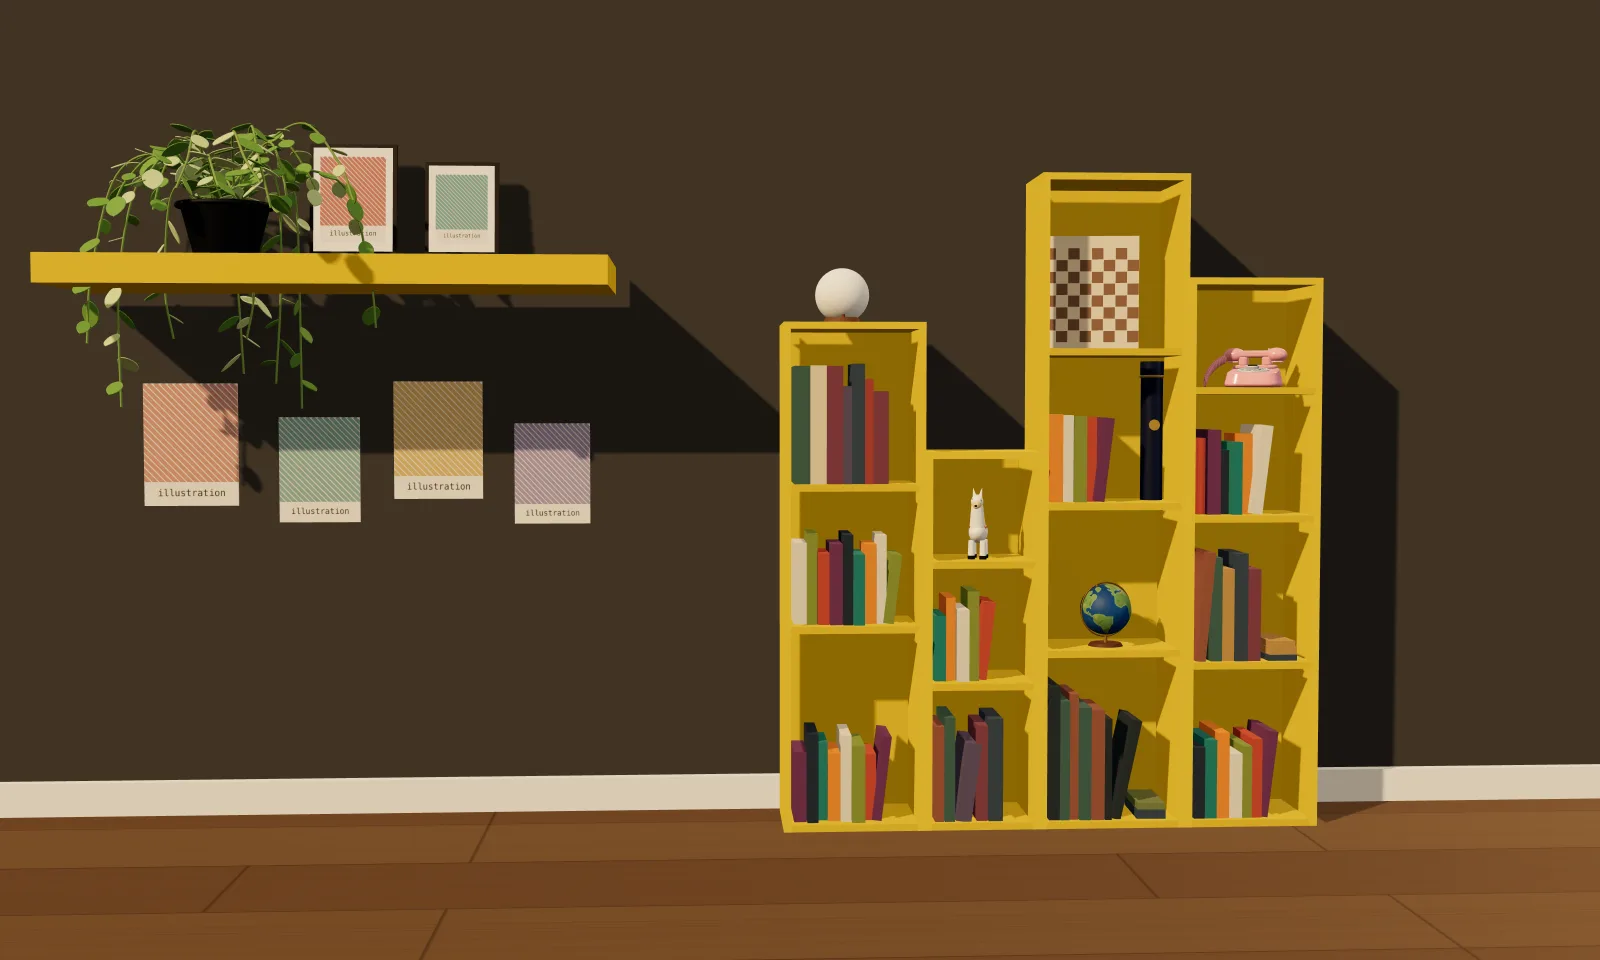
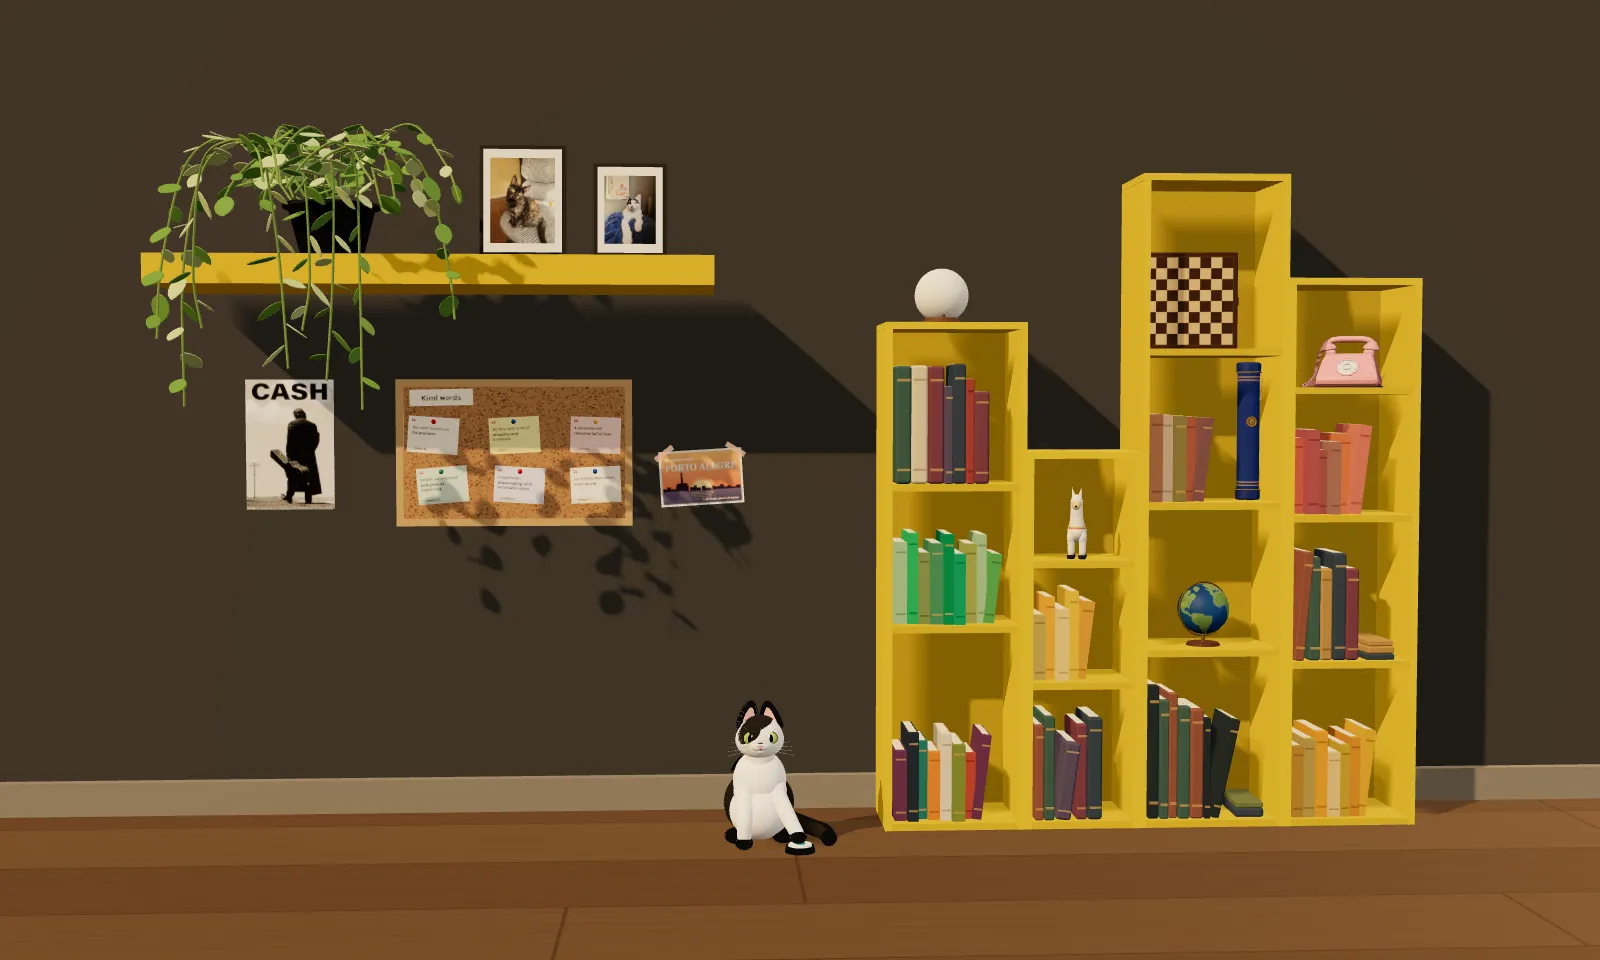
Fit the desktop room to the window and centre it
The stage now fills the window instead of a fixed 16:9.6 box, so short wide screens no longer scroll; text and the
Reader scale by whichever of width or height is tighter. The camera centres on the shelf and bookcase and backs off
for narrower windows, the loading poster matches the live scene, and upright windows use the portrait layout.

diff --git a/src/pages/HomeDesktop/HomeDesktop.module.css b/src/pages/HomeDesktop/HomeDesktop.module.css
@@ -2,17 +2,20 @@
   display: flex;
   flex-direction: column;
   width: 100%;
-  min-height: 100vh;
+  height: 100dvh;
+  overflow: hidden;
   background: var(--stage);
   font-family: var(--font-ui);
 }
 
-/* One 16:9.6 stage at full page width. Everything inside is sized in cqw so it scales with the stage. */
+/* The room fills the window. Text inside is sized in --u: a hundredth of the width of a 16:9.6 frame that fits in the
+   window, so it scales with the width and still fits a short, wide screen. */
 .stage {
   position: relative;
   width: 100%;
-  aspect-ratio: 16 / 9.6;
-  container-type: inline-size;
+  height: 100%;
+  container-type: size;
+  --u: min(1cqw, calc(1cqh * 16 / 9.6));
   overflow: hidden;
   background: var(--stage);
 }
@@ -38,8 +41,8 @@
   top: 4%;
   right: 4%;
   /* The sidesheet is `position: fixed` (viewport-relative), so it needs telling how tall the room
-     actually is here — the .stage box above, not the browser window, which can be taller than it. */
-  --quicknav-panel-height: calc(100vw * 9.6 / 16);
+     actually is here: the .stage box above, which fills the window. */
+  --quicknav-panel-height: 100dvh;
 }
 
 .intro {
@@ -56,17 +59,17 @@
   font-family: var(--font-display);
   font-weight: 400;
   font-style: normal;
-  /* 4.9cqw x headline scale 0.9 */
-  font-size: calc(4.9cqw * 0.9);
+  /* 4.9u x headline scale 0.9 */
+  font-size: calc(4.9 * 0.9 * var(--u));
   line-height: 1.02;
   letter-spacing: -0.015em;
   text-wrap: pretty;
 }
 
 .lede {
-  margin: 1.4cqw 0 0;
-  max-width: 28cqw;
-  font-size: 1.2cqw;
+  margin: calc(1.4 * var(--u)) 0 0;
+  max-width: calc(28 * var(--u));
+  font-size: calc(1.2 * var(--u));
   line-height: 1.5;
   color: rgb(var(--light-rgb) / 0.82);
 }
@@ -74,8 +77,8 @@
 .counter {
   display: flex;
   align-items: center;
-  margin-top: 1.8cqw;
-  font-size: 0.9cqw;
+  margin-top: calc(1.8 * var(--u));
+  font-size: calc(0.9 * var(--u));
   letter-spacing: 0.18em;
   text-transform: uppercase;
   color: rgb(var(--light-rgb) / 0.6);
@@ -85,12 +88,12 @@
 .chip {
   position: absolute;
   transform: translate(-50%, -180%);
-  padding: 0.3cqw 0.9cqw;
-  border: 0.14cqw solid var(--ink);
+  padding: calc(0.3 * var(--u)) calc(0.9 * var(--u));
+  border: calc(0.14 * var(--u)) solid var(--ink);
   border-radius: 999px;
   background: var(--accent);
   color: var(--ink);
-  font-size: 0.85cqw;
+  font-size: calc(0.85 * var(--u));
   font-weight: 700;
   letter-spacing: 0.08em;
   text-transform: uppercase;
@@ -98,7 +101,7 @@
   pointer-events: none;
   opacity: 0;
   transition: opacity 0.16s ease;
-  box-shadow: 0 0.4cqw 1.2cqw rgba(0, 0, 0, 0.45);
+  box-shadow: 0 calc(0.4 * var(--u)) calc(1.2 * var(--u)) rgba(0, 0, 0, 0.45);
 }
 
 .chipVisible {
@@ -110,12 +113,12 @@
   left: 50%;
   bottom: 12%;
   transform: translateX(-50%);
-  padding: 0.5cqw 1.2cqw;
+  padding: calc(0.5 * var(--u)) calc(1.2 * var(--u));
   border-radius: 999px;
   background: rgb(var(--scrim-rgb) / 0.78);
   color: var(--paper);
   font-family: var(--font-mono);
-  font-size: 0.85cqw;
+  font-size: calc(0.85 * var(--u));
   letter-spacing: 0.16em;
   text-transform: uppercase;
   pointer-events: none;

diff --git a/src/scene/officeScene.ts b/src/scene/officeScene.ts
@@ -38,6 +38,10 @@ const TOUCH_REACH = 24;
 /** The key light's shadow frustum for the desktop layout. Portrait widens it (see wide() in applyView)
  *  while the wall shelf sits above the bookcase, then this is restored the moment desktop returns. */
 const SHADOW_HOME = { left: -3.2, right: 3.8, top: 4.2, bottom: -1.2 };
+/** Desktop camera distance from the wall; it shows the room's full height. */
+const DESK_DIST = 8.3;
+/** Room to leave on each side of the shelf and bookcase on desktop, in scene units. */
+const DESK_SIDE_MARGIN = 0.6;
 
 /** Hotspots that are books on the shelf: hovering one slides a book out toward the viewer, like pulling it off. */
 const BOOK_IDS: readonly string[] = ["about", "case1", "case2", "case3", "case4", "case5", "resume"];
@@ -963,6 +967,10 @@ export class OfficeScene {
     this.applyLight(o.daylight);
     if (o.touchControls) this.enableTouchControls();
     this.applyView(o.view);
+    // Open on that framing rather than easing into it from the default one.
+    camera.position.copy(this.camBase);
+    if (this.tGoal) this.target.copy(this.tGoal);
+    camera.lookAt(this.target);
     this.applyWall(o.walltone);
     this.setHints(o.hints);
 
@@ -1335,7 +1343,7 @@ export class OfficeScene {
       const asp = this.camera.aspect || 1.6;
       this.framedPortrait = asp < 1.15;
       if (asp >= 1.15) {
-        // desktop: exactly the original layout and framing, untouched by anything portrait does.
+        // desktop: the original layout and camera height, untouched by anything portrait does, centred on the room.
         this.wallShelf?.position.copy(this.wallHomeShelf);
         this.posters?.position.copy(this.wallHomePosters);
         if (this.wallLight) this.wallLight.intensity = 0;
@@ -1343,8 +1351,15 @@ export class OfficeScene {
           Object.assign(shadowCam, SHADOW_HOME);
           shadowCam.updateProjectionMatrix();
         }
-        this.camBase.set(1.0, 1.95, 8.3);
-        tGoal.set(1.45, 1.6, 0);
+        // The room (wall shelf with its plant, illustrations and the bookcase) sits in the middle of the window. The
+        // original distance shows its full height; a window narrower than that backs off until the whole width fits.
+        const room = this.bookBox && this.wallHomeBox ? this.bookBox.clone().union(this.wallHomeBox) : null;
+        const cx = room ? (room.min.x + room.max.x) / 2 : 1.45;
+        const halfW = room ? (room.max.x - room.min.x) / 2 + DESK_SIDE_MARGIN : 3.6;
+        const tanV = Math.tan((this.camera.fov * Math.PI) / 360);
+        const d = Math.max(DESK_DIST, halfW / (tanV * asp));
+        this.camBase.set(cx - 0.45, 1.95, d);
+        tGoal.set(cx, 1.6, 0);
         return;
       }
       // portrait: the wall shelf and illustrations move to sit above the bookcase (mobile only —

diff --git a/src/components/Reader/Reader.tsx b/src/components/Reader/Reader.tsx
@@ -1,4 +1,4 @@
-import { useCallback, useEffect, useMemo, useRef, useState } from "react";
+import { useCallback, useEffect, useLayoutEffect, useMemo, useRef, useState } from "react";
 import { getReaderItem, type ReaderItem } from "../../content";
 import { usePrefersReducedMotion } from "../../hooks/usePrefersReducedMotion";
 import { emitSelect } from "../../scene/events";
@@ -99,6 +99,20 @@ export function Reader({ item, id, onClose, className, compact = false }: Props)
   }, []);
 
   const root = useRef<HTMLDivElement>(null);
+  // The desktop book is sized for a 16:9.6 room. In a window that is wider than that (a short laptop screen), shrink it
+  // by how much the height falls short, so the book and its controls still fit without scrolling.
+  useLayoutEffect(() => {
+    const el = root.current;
+    if (compact || !el) return;
+    const fit = () => {
+      const { width, height } = el.getBoundingClientRect();
+      el.style.setProperty("--fit", String(width > 0 ? Math.min(1, (height * 16) / 9.6 / width) : 1));
+    };
+    fit();
+    const ro = new ResizeObserver(fit);
+    ro.observe(el);
+    return () => ro.disconnect();
+  }, [compact]);
   const prevBtn = useRef<HTMLButtonElement>(null);
   const nextBtn = useRef<HTMLButtonElement>(null);
   const timers = useRef<{ cover?: number; turn?: number; close?: number }>({});

diff --git a/src/components/Reader/parts.tsx b/src/components/Reader/parts.tsx
@@ -1,6 +1,7 @@
 import { Fragment, useContext, useEffect, useRef, useState, type CSSProperties, type ReactNode } from "react";
 import { createPortal } from "react-dom";
 import { hasPanel, imageUrls, pageHasArt, pageImages, type PageChart, type PagePolaroids, type ReaderPage } from "../../content";
+import { MOBILE_QUERY } from "../../layout";
 import { IMAGE_TAG } from "./copy";
 import { Model3D } from "./Model3D";
 import { Cards, Compare, Funnel, Glossary, Hobbies, Journey, Migration, Palette, Personas, Poll, Quotes, Showcase, Stats, Timeline } from "./PageArt";
@@ -115,7 +116,7 @@ export function PrototypePage({ page }: { page: ReaderPage }) {
   const [full, setFull] = useState(false);
   // Phones and tablets held upright get a poster and a button instead: a prototype squeezed into a book page is hard
   // to use with a thumb, so it opens over the whole screen instead.
-  const [narrow] = useState(() => typeof matchMedia === "function" && matchMedia("(max-width: 899px)").matches);
+  const [narrow] = useState(() => typeof matchMedia === "function" && matchMedia(MOBILE_QUERY).matches);
   const base = `${import.meta.env.BASE_URL}${proto.path}`;
   const go = (id: string) => {
     setAt(id);

diff --git a/src/App.tsx b/src/App.tsx
@@ -1,9 +1,7 @@
 import { useMediaQuery } from "./hooks/useMediaQuery";
+import { MOBILE_QUERY } from "./layout";
 import { HomeDesktop } from "./pages/HomeDesktop/HomeDesktop";
 import { HomeMobile } from "./pages/HomeMobile/HomeMobile";
-
-/** Below this width the same room is shown portrait-fitted, with touch controls. */
-const MOBILE_QUERY = "(max-width: 899px)";
 
 /**
  * Only one home, and so one 3D scene, is mounted at a time. Switching layouts unmounts the other

diff --git a/src/layout.ts b/src/layout.ts
@@ -1,0 +1,5 @@
+/**
+ * Below this width, or in a window that is taller than it is wide (a tablet held upright), the room is shown
+ * portrait-fitted, with touch controls and the compact Reader. The aspect matches the scene's own portrait threshold of 1.15.
+ */
+export const MOBILE_QUERY = "(max-width: 899px), (max-aspect-ratio: 23/20)";

diff --git a/src/components/Reader/Reader.module.css b/src/components/Reader/Reader.module.css
@@ -11,7 +11,7 @@
   --dur: 420ms;
   --ease: cubic-bezier(0.3, 0, 0.1, 1);
   /* Desktop size of the whole Reader (book, type, spacing). 1 = the handoff's size; raise it to open the book larger. */
-  --k: 1.18;
+  --k: calc(1.18 * var(--fit, 1));
   position: absolute;
   inset: 0;
   container-type: inline-size;
